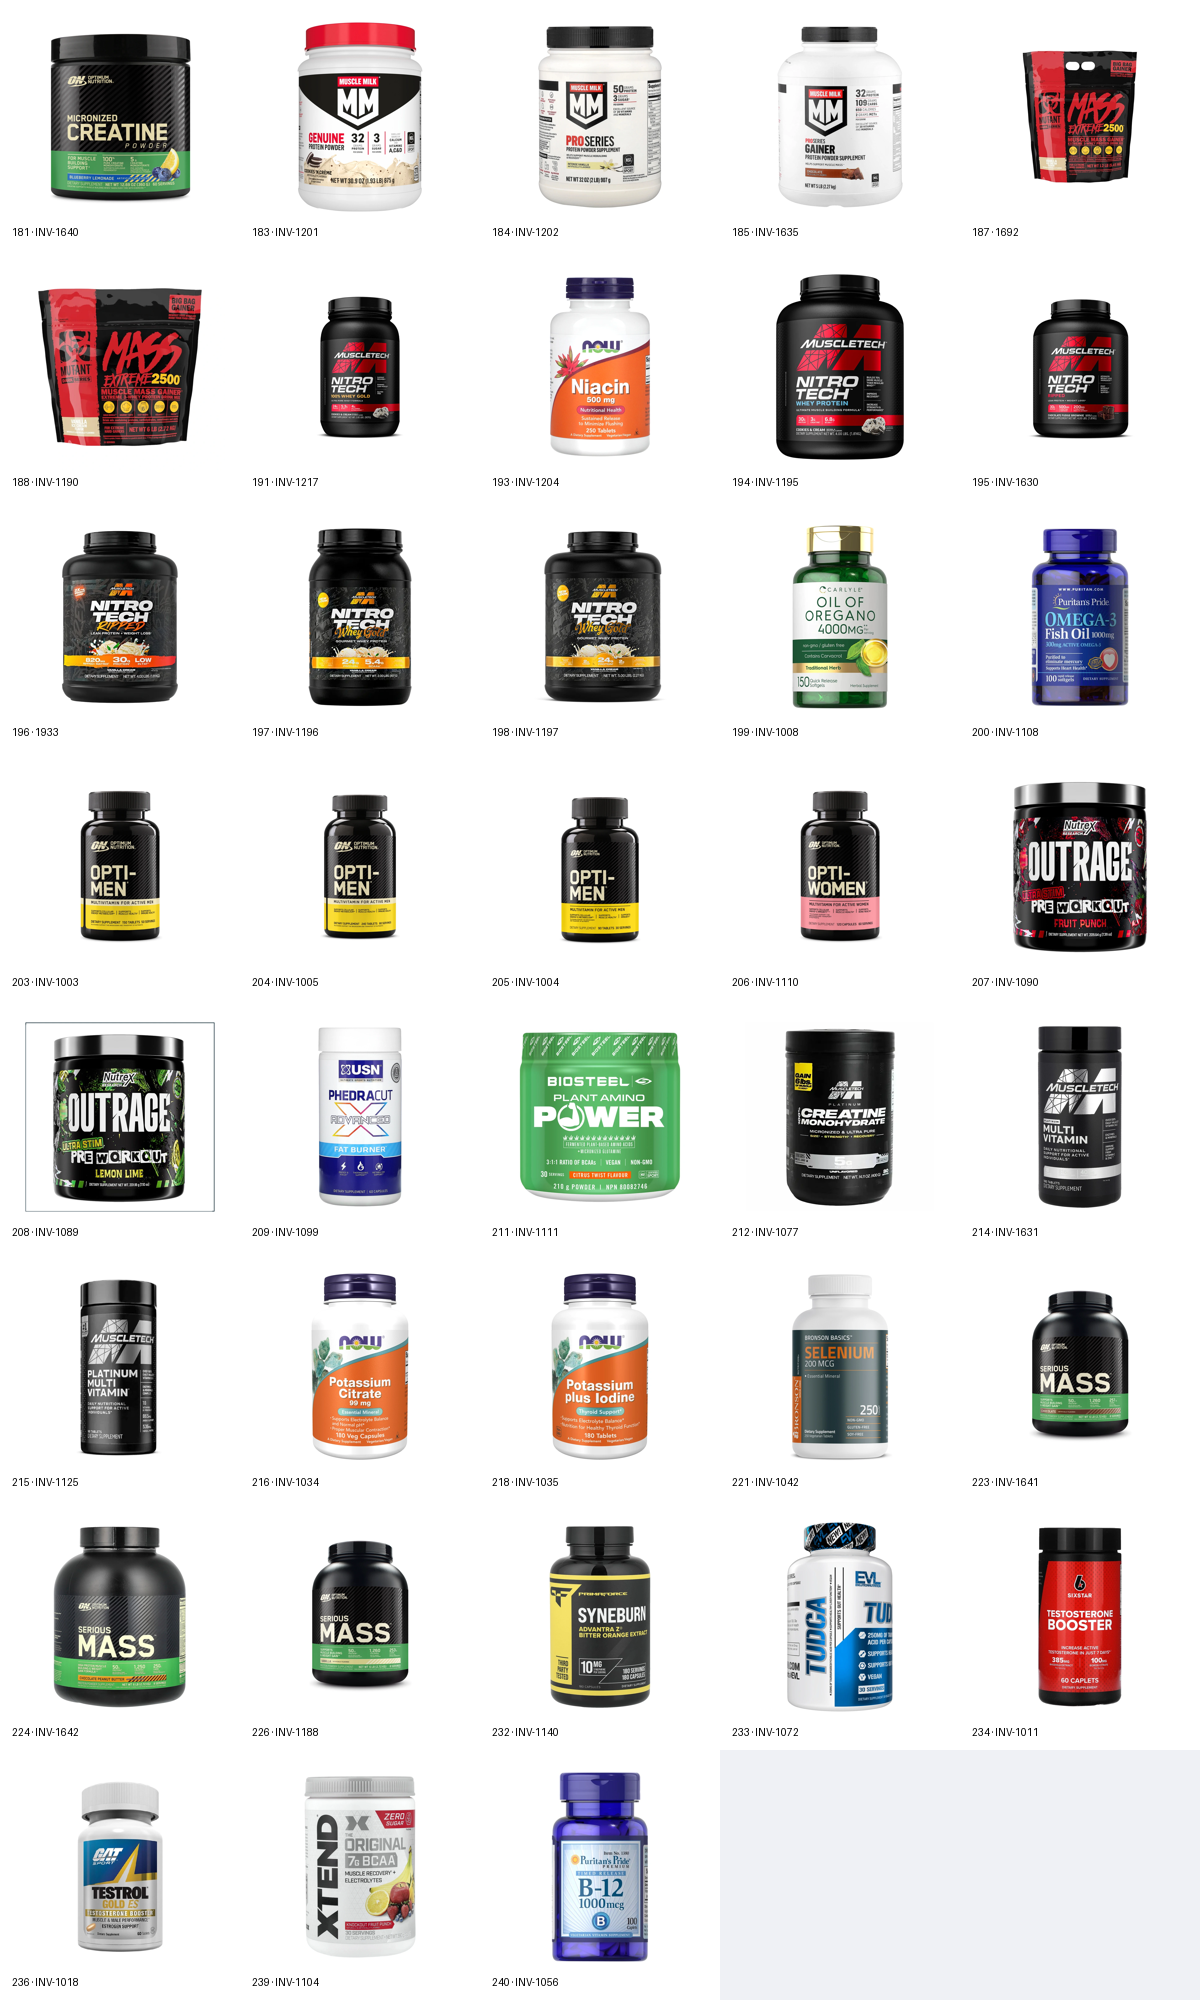
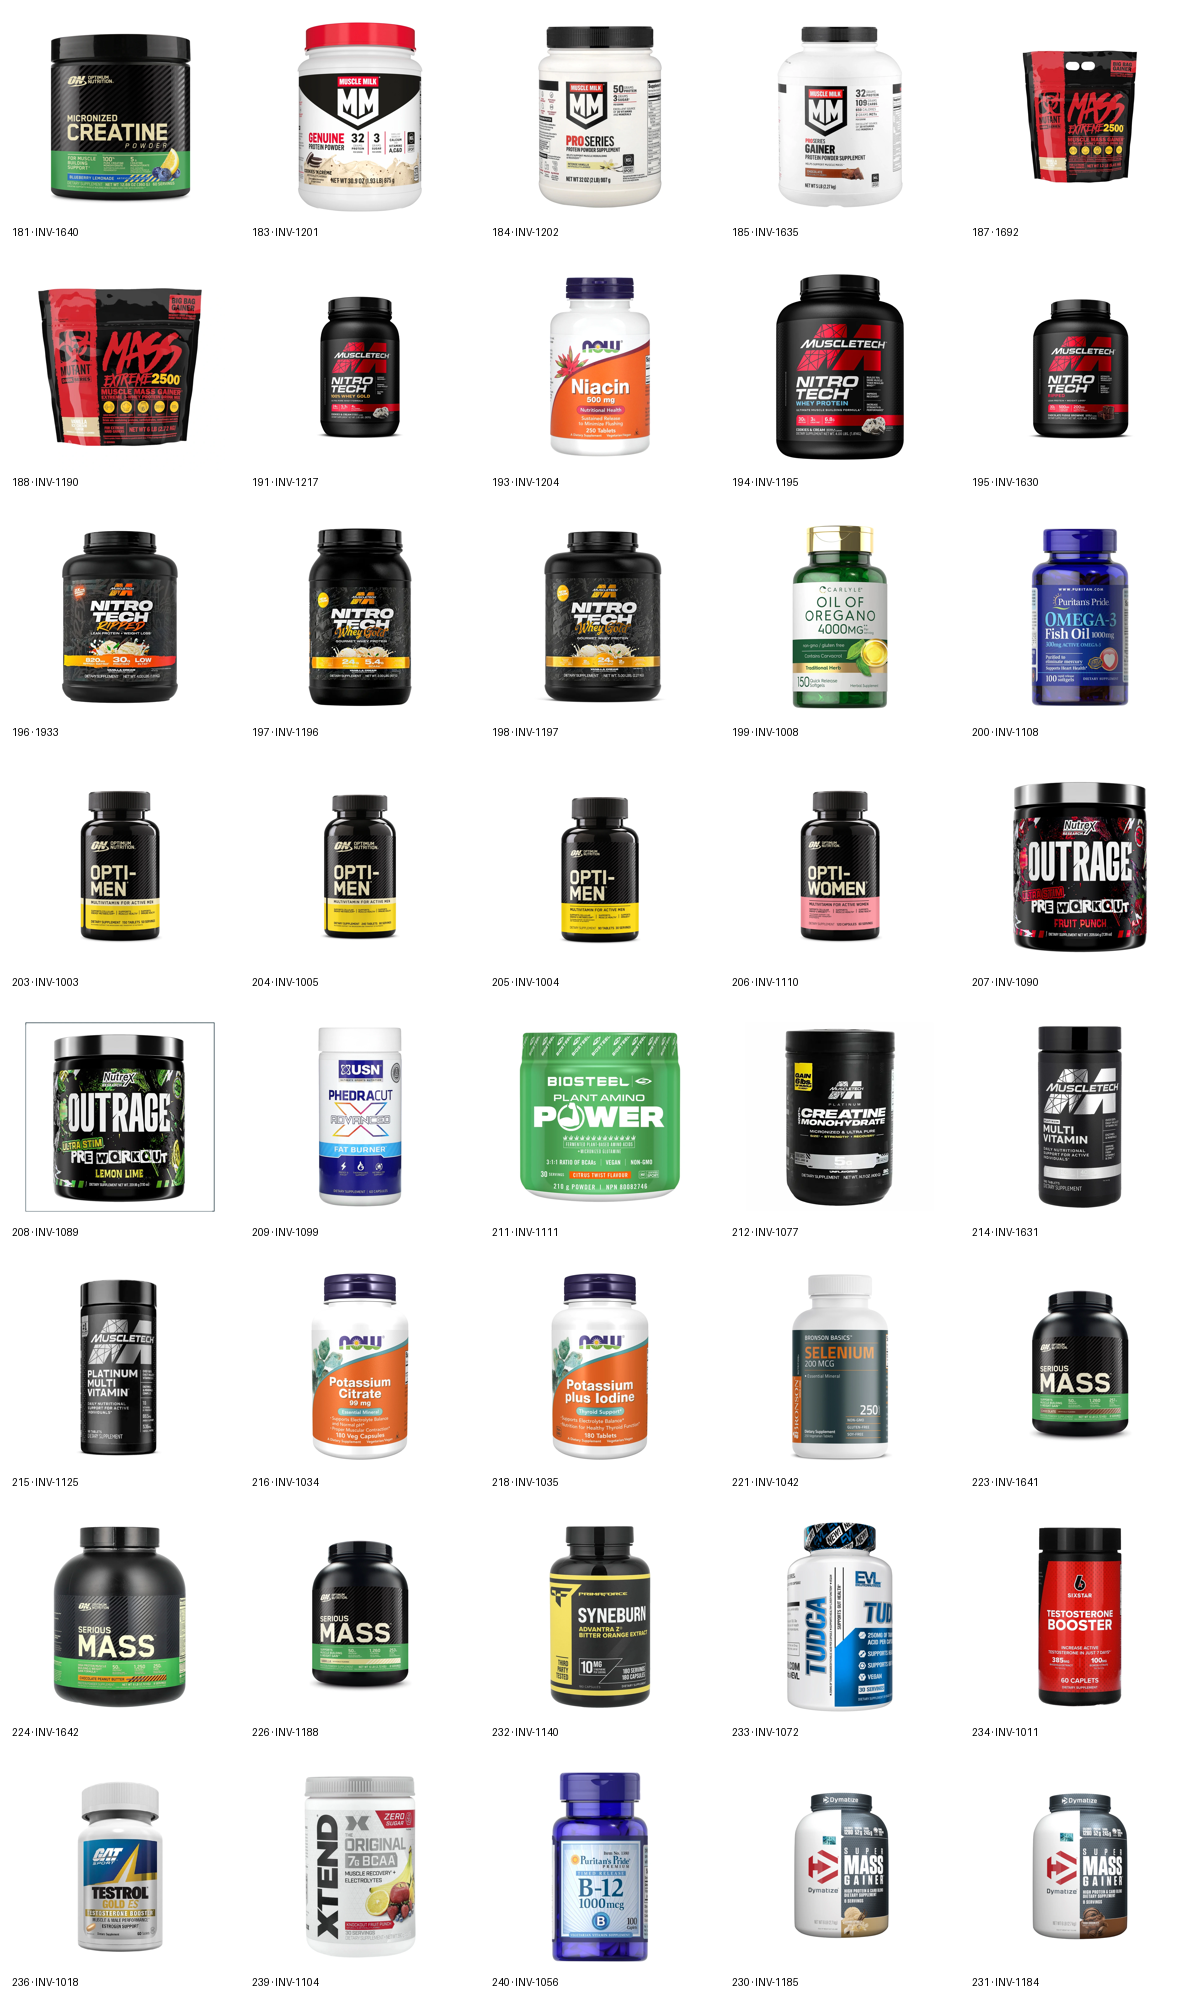
docs(fotos): agregar dos Dymatize de 6 lb al lote 4

Changed region(s): [[0.6475, 0.899, 0.74, 0.992], [0.8633, 0.899, 0.9558, 0.992]]

diff --git a/docs/fotos/lote-4/README.md b/docs/fotos/lote-4/README.md
@@ -4,8 +4,13 @@ ChatGPT PC cubre las filas 181–240 de [suplementos.csv](../suplementos.csv). C
 
 ## Cobertura
 
-- Hay 38 fotos reales para los 60 productos asignados. Cada WebP mide 1000 × 1000 px. Los originales cotejados en la laptop tenían al menos 800 px por lado. [Hoja de contacto](contacto.png).
-- La revisión visual de Dot identificó 23 coincidencias, 9 con observaciones y 6 pendientes de confirmar por sabor o tamaño. El CSV conserva la fuente, el estado de coincidencia y la nota de derechos de cada foto. [Manifiesto de fotos](fotos.csv).
-- Los otros 22 productos quedaron sin archivo. Entre los motivos figuran una presentación distinta, una etiqueta insuficiente para confirmar y la falta de un original de al menos 800 px. [Lista de faltantes](faltantes.csv).
+- Hay 40 fotos reales para los 60 productos asignados. Cada WebP mide 1000 × 1000 px. Los originales cotejados en la laptop tenían al menos 800 px por lado. [Hoja de contacto](contacto.png).
+- La revisión visual de Dot de las primeras 38 fotos identificó 23 coincidencias, 9 con observaciones y 6 pendientes de confirmar por sabor o tamaño. ChatGPT PC cotejó dos coincidencias adicionales de Dymatize. El CSV conserva la fuente, el estado de coincidencia y la nota de derechos de cada foto. [Manifiesto de fotos](fotos.csv).
+- Los otros 20 productos quedaron sin archivo. Entre los motivos figuran una presentación distinta, una etiqueta insuficiente para confirmar y la falta de un original de al menos 800 px. [Lista de faltantes](faltantes.csv).
+
+## Dos fotos nuevas de Dymatize
+
[2 lines of base64/hex data omitted]
 
 Son candidatas para revisión. Quedan por comprobar los derechos de reutilización y obtener la aprobación para publicarlas en la tienda.

diff --git a/docs/coordinacion/RESULTADOS_CHATGPT.md b/docs/coordinacion/RESULTADOS_CHATGPT.md
@@ -6,6 +6,7 @@ Aquí cada asistente deja, por entrega, lo que hizo para que Claude lo lea sin q
 
 - El lote 4 corresponde a ChatGPT PC (filas 181–240). ChatGPT Nube trabajó las filas 1–180 y compartió la definición del lote 4. La entrega en `chatgpt-pc/fotos-lote-4` reúne 38 WebP, su CSV y una sola hoja de contacto. [Traspaso de ChatGPT Nube](https://github.com/marcosfeliz28/awesome-outbid/commit/f99589dafbe4ad9bafd97f279faa89cb59679aee), [entrega del lote 4](../fotos/lote-4/README.md).
 - Hay 23 coincidencias visuales, 9 con observaciones de la revisión de Dot y 6 por confirmar. Los 22 productos sin foto tienen su motivo en el listado. Los derechos de reutilización y la aprobación para la tienda siguen pendientes.
+- En una segunda entrega agregué `INV-1185` y `INV-1184`. Las fotos de Dymatize muestran Gourmet Vanilla y Rich Chocolate de 6 lb, respectivamente. La hoja de contacto reúne ahora 40 candidatas y quedan 20 productos sin archivo. [Fotos y comprobaciones](../fotos/lote-4/README.md).
 
 ## 2026-11-14 · ChatGPT PC · tercer recorrido y Windows limpio
 
